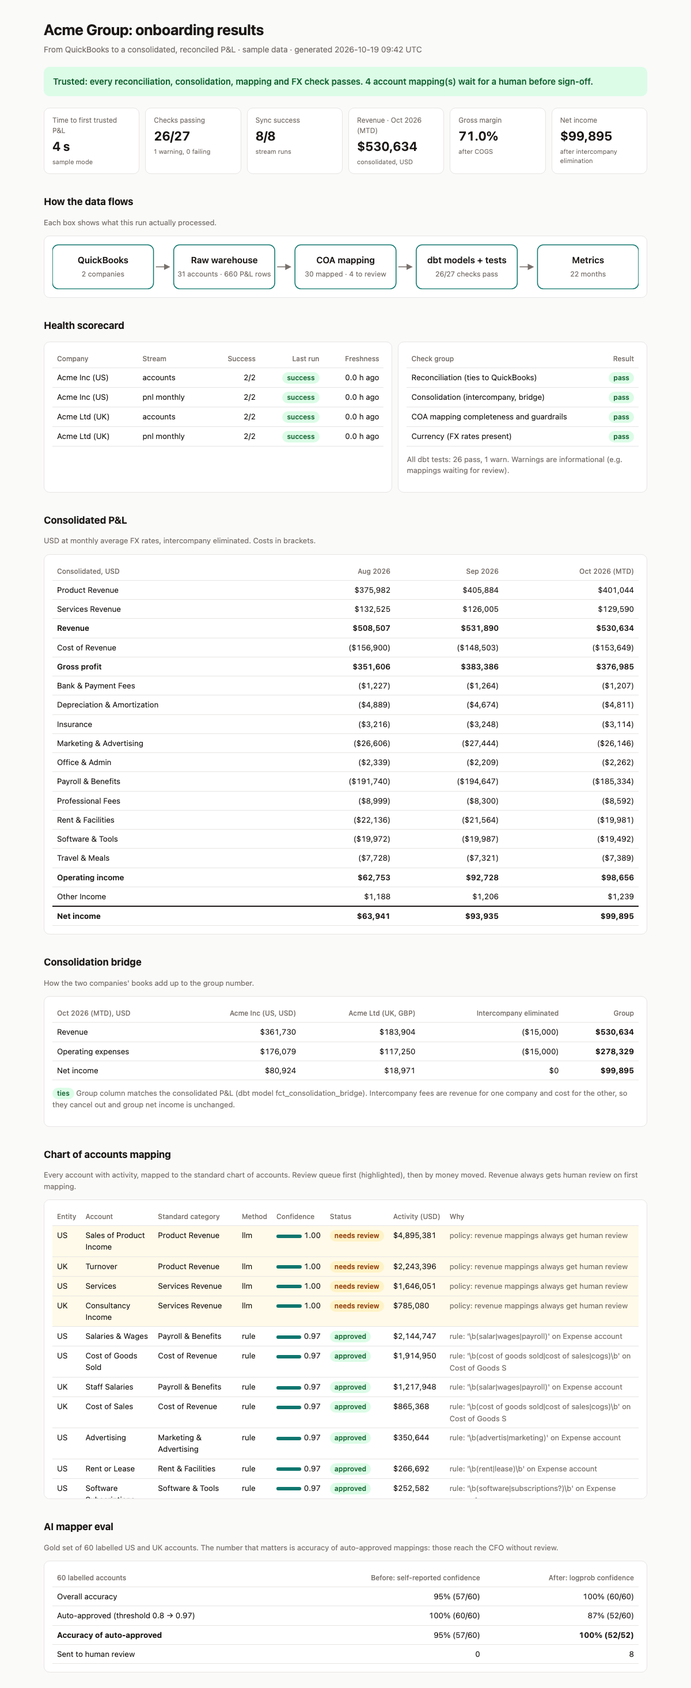
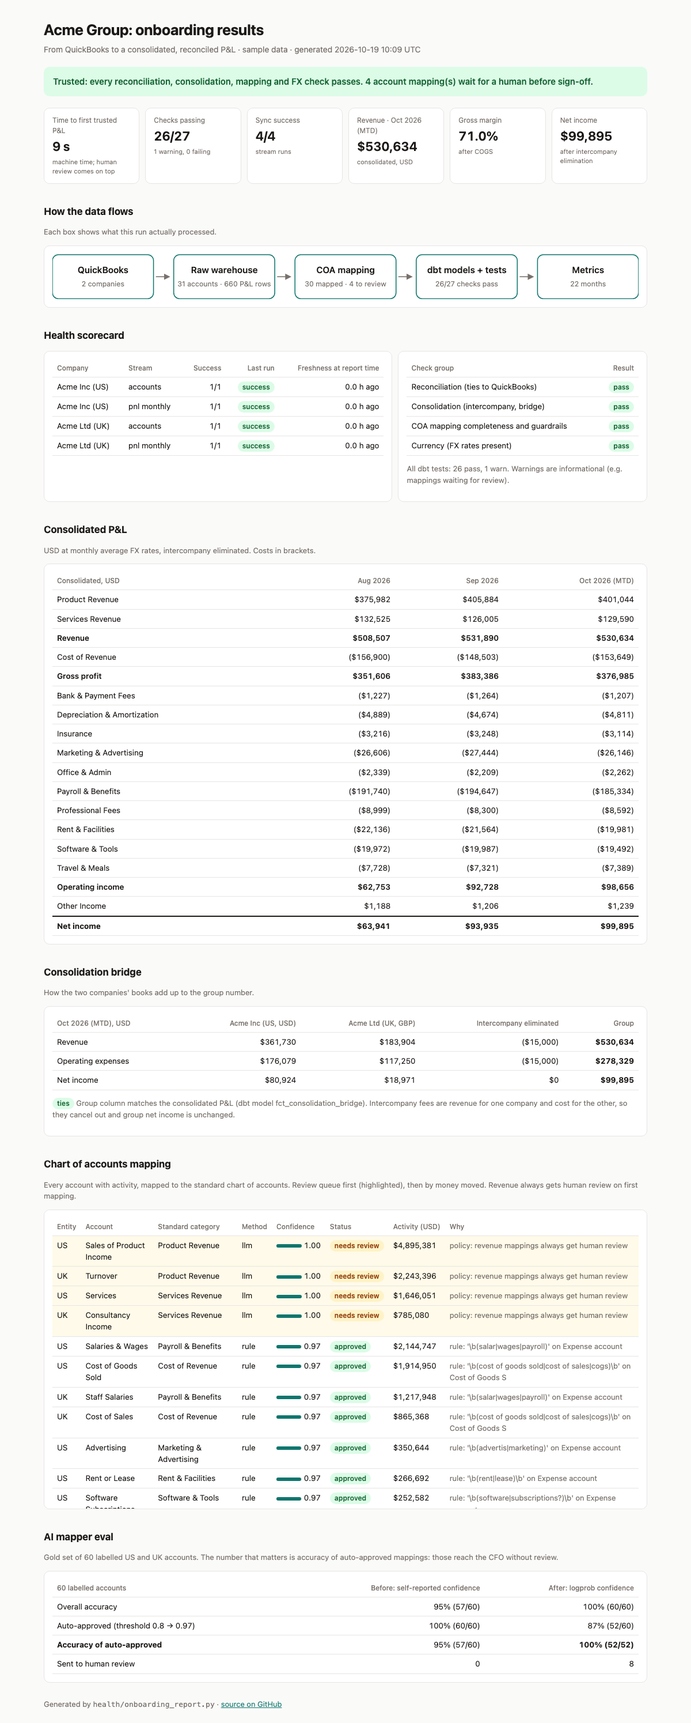
README for a 2-minute read; publish the results dashboard
- First screen in plain English: one-line summary, dashboard and docs links,
  the problem, what was built, and how to run it in 3 commands
- Technical detail moves under "For engineers"
- docs/index.html: results report from a fresh sample-mode run, served by GitHub Pages

diff --git a/docs/index.html b/docs/index.html
@@ -1,0 +1,85 @@
+<!doctype html>
+<html lang="en"><head><meta charset="utf-8"><meta name="viewport" content="width=device-width, initial-scale=1">
+<title>Onboarding results</title>
+<style>
+:root { --bg:#fafaf9; --card:#ffffff; --text:#1c1917; --muted:#78716c; --line:#e7e5e4; --accent:#0f766e;
+        --ok-bg:#dcfce7; --ok:#166534; --warn-bg:#fef3c7; --warn:#92400e; --bad-bg:#fee2e2; --bad:#991b1b; }
+@media (prefers-color-scheme: dark) { :root { --bg:#0c0a09; --card:#1c1917; --text:#f5f5f4; --muted:#a8a29e;
+        --line:#292524; --accent:#2dd4bf; --ok-bg:#14532d; --ok:#bbf7d0; --warn-bg:#78350f; --warn:#fde68a;
+        --bad-bg:#7f1d1d; --bad:#fecaca; } }
+* { box-sizing:border-box; }
+body { margin:0; background:var(--bg); color:var(--text); font:15px/1.5 -apple-system,BlinkMacSystemFont,"Segoe UI",Roboto,sans-serif; }
+main { max-width:1080px; margin:0 auto; padding:32px 16px 64px; }
+h1 { font-size:26px; margin:0 0 4px; letter-spacing:-0.01em; }
+h2 { font-size:17px; margin:36px 0 4px; }
+.lead { color:var(--muted); margin:0 0 4px; font-size:14px; }
+.muted { color:var(--muted); font-size:13px; }
+.verdict { margin:20px 0; padding:14px 16px; border-radius:10px; font-weight:600;
+           background:var(--ok-bg); color:var(--ok); }
+.tiles { display:grid; grid-template-columns:repeat(auto-fit,minmax(150px,1fr)); gap:10px; }
+.tile { background:var(--card); border:1px solid var(--line); border-radius:10px; padding:12px 14px; }
+.tile .label { color:var(--muted); font-size:12px; }
+.tile .value { font-size:22px; font-weight:650; font-variant-numeric:tabular-nums; margin:2px 0; }
+.tile .sub { color:var(--muted); font-size:11px; }
+.card { background:var(--card); border:1px solid var(--line); border-radius:10px; padding:14px; margin-top:10px; }
+.grid2 { display:grid; grid-template-columns:1.4fr 1fr; gap:10px; }
+@media (max-width:760px) { .grid2 { grid-template-columns:1fr; } }
+.scroll { overflow-x:auto; }
+table { width:100%; border-collapse:collapse; font-size:13.5px; font-variant-numeric:tabular-nums; }
+th { text-align:left; color:var(--muted); font-weight:500; font-size:12px; border-bottom:1px solid var(--line); padding:6px 8px; white-space:nowrap; }
+td { border-bottom:1px solid var(--line); padding:6px 8px; vertical-align:top; }
+.num { text-align:right; white-space:nowrap; }
+tr.subtotal td { font-weight:600; border-top:1px solid var(--muted); }
+tr.total td { font-weight:700; border-top:2px solid var(--text); }
+tr.review td { background:color-mix(in srgb, var(--warn-bg) 40%, transparent); }
+.pill { display:inline-block; padding:1px 8px; border-radius:999px; font-size:12px; font-weight:600; white-space:nowrap; }
+.pill.ok { background:var(--ok-bg); color:var(--ok); } .pill.warn { background:var(--warn-bg); color:var(--warn); }
+.pill.bad { background:var(--bad-bg); color:var(--bad); }
+.bar { display:inline-block; width:44px; height:6px; border-radius:3px; background:var(--line); vertical-align:middle; }
+.bar span { display:block; height:100%; border-radius:3px; background:var(--accent); }
+a { color:var(--accent); }
+svg { width:100%; height:auto; display:block; }
+svg .box { fill:var(--card); stroke:var(--accent); stroke-width:1.5; }
+svg .t1 { fill:var(--text); font-size:15px; font-weight:600; text-anchor:middle; }
+svg .t2 { fill:var(--muted); font-size:12px; text-anchor:middle; }
+svg .arrow { stroke:var(--muted); stroke-width:1.5; fill:none; } svg .arrowhead { fill:var(--muted); }
+.mapping { max-height:520px; overflow:auto; }
+.nowrap { white-space:nowrap; }
+</style></head><body><main>
+<h1>Acme Group: onboarding results</h1>
+<p class="lead">From QuickBooks to a consolidated, reconciled P&amp;L · sample data ·
+generated 2026-10-19 10:09 UTC</p>
+<div class="verdict">Trusted: every reconciliation, consolidation, mapping and FX check passes. 4 account mapping(s) wait for a human before sign-off.</div>
+<div class="tiles"><div class="tile"><div class="label">Time to first trusted P&amp;L</div><div class="value">9 s</div><div class="sub">machine time; human review comes on top</div></div><div class="tile"><div class="label">Checks passing</div><div class="value">26/27</div><div class="sub">1 warning, 0 failing</div></div><div class="tile"><div class="label">Sync success</div><div class="value">4/4</div><div class="sub">stream runs</div></div><div class="tile"><div class="label">Revenue · Oct 2026 (MTD)</div><div class="value">$530,634</div><div class="sub">consolidated, USD</div></div><div class="tile"><div class="label">Gross margin</div><div class="value">71.0%</div><div class="sub">after COGS</div></div><div class="tile"><div class="label">Net income</div><div class="value">$99,895</div><div class="sub">after intercompany elimination</div></div></div>
+
+<h2>How the data flows</h2>
+<p class="muted">Each box shows what this run actually processed.</p>
+<div class="card"><svg viewBox="0 0 986 76" role="img" aria-label="Data flow"><defs><marker id="head" viewBox="0 0 10 10" refX="8" refY="5" markerWidth="7" markerHeight="7" orient="auto"><path d="M0 0 L10 5 L0 10 z" class="arrowhead"/></marker></defs><rect x="0" y="1" width="170" height="74" rx="10" class="box"/><text x="85.0" y="32" class="t1">QuickBooks</text><text x="85.0" y="54" class="t2">2 companies</text><path d="M174 38.0 h22" class="arrow" marker-end="url(#head)"/><rect x="204" y="1" width="170" height="74" rx="10" class="box"/><text x="289.0" y="32" class="t1">Raw warehouse</text><text x="289.0" y="54" class="t2">31 accounts · 660 P&amp;L rows</text><path d="M378 38.0 h22" class="arrow" marker-end="url(#head)"/><rect x="408" y="1" width="170" height="74" rx="10" class="box"/><text x="493.0" y="32" class="t1">COA mapping</text><text x="493.0" y="54" class="t2">30 mapped · 4 to review</text><path d="M582 38.0 h22" class="arrow" marker-end="url(#head)"/><rect x="612" y="1" width="170" height="74" rx="10" class="box"/><text x="697.0" y="32" class="t1">dbt models + tests</text><text x="697.0" y="54" class="t2">26/27 checks pass</text><path d="M786 38.0 h22" class="arrow" marker-end="url(#head)"/><rect x="816" y="1" width="170" height="74" rx="10" class="box"/><text x="901.0" y="32" class="t1">Metrics</text><text x="901.0" y="54" class="t2">22 months</text></svg></div>
+
+<h2>Health scorecard</h2>
+<div class="grid2">
+  <div class="card"><div class="scroll"><table><thead><tr><th class="">Company</th><th class="">Stream</th><th class="num">Success</th><th class="num">Last run</th><th class="num">Freshness at report time</th></tr></thead><tbody><tr class=""><td class="">Acme Inc (US)</td><td class="">accounts</td><td class="num">1/1</td><td class="num"><span class="pill ok">success</span></td><td class="num">0.0 h ago</td></tr><tr class=""><td class="">Acme Inc (US)</td><td class="">pnl monthly</td><td class="num">1/1</td><td class="num"><span class="pill ok">success</span></td><td class="num">0.0 h ago</td></tr><tr class=""><td class="">Acme Ltd (UK)</td><td class="">accounts</td><td class="num">1/1</td><td class="num"><span class="pill ok">success</span></td><td class="num">0.0 h ago</td></tr><tr class=""><td class="">Acme Ltd (UK)</td><td class="">pnl monthly</td><td class="num">1/1</td><td class="num"><span class="pill ok">success</span></td><td class="num">0.0 h ago</td></tr></tbody></table></div></div>
+  <div class="card"><div class="scroll"><table><thead><tr><th class="">Check group</th><th class="num">Result</th></tr></thead><tbody><tr class=""><td class="">Reconciliation (ties to QuickBooks)</td><td class="num"><span class="pill ok">pass</span></td></tr><tr class=""><td class="">Consolidation (intercompany, bridge)</td><td class="num"><span class="pill ok">pass</span></td></tr><tr class=""><td class="">COA mapping completeness and guardrails</td><td class="num"><span class="pill ok">pass</span></td></tr><tr class=""><td class="">Currency (FX rates present)</td><td class="num"><span class="pill ok">pass</span></td></tr></tbody></table></div><p class="muted">All dbt tests: 26 pass, 1 warn.
+  Warnings are informational (e.g. mappings waiting for review).</p></div>
+</div>
+
+<h2>Consolidated P&amp;L</h2>
+<p class="muted">USD at monthly average FX rates, intercompany eliminated. Costs in brackets.</p>
+<div class="card"><div class="scroll"><table><thead><tr><th class="">Consolidated, USD</th><th class="num">Aug 2026</th><th class="num">Sep 2026</th><th class="num">Oct 2026 (MTD)</th></tr></thead><tbody><tr class=""><td class="">Product Revenue</td><td class="num">$375,982</td><td class="num">$405,884</td><td class="num">$401,044</td></tr><tr class=""><td class="">Services Revenue</td><td class="num">$132,525</td><td class="num">$126,005</td><td class="num">$129,590</td></tr><tr class="subtotal"><td class="">Revenue</td><td class="num">$508,507</td><td class="num">$531,890</td><td class="num">$530,634</td></tr><tr class=""><td class="">Cost of Revenue</td><td class="num">($156,900)</td><td class="num">($148,503)</td><td class="num">($153,649)</td></tr><tr class="subtotal"><td class="">Gross profit</td><td class="num">$351,606</td><td class="num">$383,386</td><td class="num">$376,985</td></tr><tr class=""><td class="">Bank &amp; Payment Fees</td><td class="num">($1,227)</td><td class="num">($1,264)</td><td class="num">($1,207)</td></tr><tr class=""><td class="">Depreciation &amp; Amortization</td><td class="num">($4,889)</td><td class="num">($4,674)</td><td class="num">($4,811)</td></tr><tr class=""><td class="">Insurance</td><td class="num">($3,216)</td><td class="num">($3,248)</td><td class="num">($3,114)</td></tr><tr class=""><td class="">Marketing &amp; Advertising</td><td class="num">($26,606)</td><td class="num">($27,444)</td><td class="num">($26,146)</td></tr><tr class=""><td class="">Office &amp; Admin</td><td class="num">($2,339)</td><td class="num">($2,209)</td><td class="num">($2,262)</td></tr><tr class=""><td class="">Payroll &amp; Benefits</td><td class="num">($191,740)</td><td class="num">($194,647)</td><td class="num">($185,334)</td></tr><tr class=""><td class="">Professional Fees</td><td class="num">($8,999)</td><td class="num">($8,300)</td><td class="num">($8,592)</td></tr><tr class=""><td class="">Rent &amp; Facilities</td><td class="num">($22,136)</td><td class="num">($21,564)</td><td class="num">($19,981)</td></tr><tr class=""><td class="">Software &amp; Tools</td><td class="num">($19,972)</td><td class="num">($19,987)</td><td class="num">($19,492)</td></tr><tr class=""><td class="">Travel &amp; Meals</td><td class="num">($7,728)</td><td class="num">($7,321)</td><td class="num">($7,389)</td></tr><tr class="subtotal"><td class="">Operating income</td><td class="num">$62,753</td><td class="num">$92,728</td><td class="num">$98,656</td></tr><tr class=""><td class="">Other Income</td><td class="num">$1,188</td><td class="num">$1,206</td><td class="num">$1,239</td></tr><tr class="total"><td class="">Net income</td><td class="num">$63,941</td><td class="num">$93,935</td><td class="num">$99,895</td></tr></tbody></table></div></div>
+
+<h2>Consolidation bridge</h2>
+<p class="muted">How the two companies' books add up to the group number.</p>
+<div class="card"><div class="scroll"><table><thead><tr><th class="">Oct 2026 (MTD), USD</th><th class="num">Acme Inc (US, USD)</th><th class="num">Acme Ltd (UK, GBP)</th><th class="num">Intercompany eliminated</th><th class="num">Group</th></tr></thead><tbody><tr class=""><td class="">Revenue</td><td class="num">$361,730</td><td class="num">$183,904</td><td class="num">($15,000)</td><td class="num"><b>$530,634</b></td></tr><tr class=""><td class="">Operating expenses</td><td class="num">$176,079</td><td class="num">$117,250</td><td class="num">($15,000)</td><td class="num"><b>$278,329</b></td></tr><tr class=""><td class="">Net income</td><td class="num">$80,924</td><td class="num">$18,971</td><td class="num">$0</td><td class="num"><b>$99,895</b></td></tr></tbody></table></div><p class="muted"><span class="pill ok">ties</span> Group column matches the consolidated P&L (dbt model fct_consolidation_bridge). Intercompany fees are revenue for one company and cost for the other, so they cancel out and group net income is unchanged.</p></div>
+
+<h2>Chart of accounts mapping</h2>
+<p class="muted">Every account with activity, mapped to the standard chart of accounts. Review queue first
+(highlighted), then by money moved. Revenue always gets human review on first mapping.</p>
+<div class="card mapping"><div class="scroll"><table><thead><tr><th class="">Entity</th><th class="">Account</th><th class="">Standard category</th><th class="">Method</th><th class="">Confidence</th><th class="">Status</th><th class="">Activity (USD)</th><th class="">Why</th></tr></thead><tbody><tr class="review"><td class="">US</td><td class="">Sales of Product Income</td><td class="">Product Revenue</td><td class="">llm</td><td class=""><span class="nowrap"><span class="bar"><span style="width:100%"></span></span> 1.00</span></td><td class=""><span class="pill warn">needs review</span></td><td class="">$4,895,381</td><td class=""><span class="muted">policy: revenue mappings always get human review</span></td></tr><tr class="review"><td class="">UK</td><td class="">Turnover</td><td class="">Product Revenue</td><td class="">llm</td><td class=""><span class="nowrap"><span class="bar"><span style="width:100%"></span></span> 1.00</span></td><td class=""><span class="pill warn">needs review</span></td><td class="">$2,243,396</td><td class=""><span class="muted">policy: revenue mappings always get human review</span></td></tr><tr class="review"><td class="">US</td><td class="">Services</td><td class="">Services Revenue</td><td class="">llm</td><td class=""><span class="nowrap"><span class="bar"><span style="width:100%"></span></span> 1.00</span></td><td class=""><span class="pill warn">needs review</span></td><td class="">$1,646,051</td><td class=""><span class="muted">policy: revenue mappings always get human review</span></td></tr><tr class="review"><td class="">UK</td><td class="">Consultancy Income</td><td class="">Services Revenue</td><td class="">llm</td><td class=""><span class="nowrap"><span class="bar"><span style="width:100%"></span></span> 1.00</span></td><td class=""><span class="pill warn">needs review</span></td><td class="">$785,080</td><td class=""><span class="muted">policy: revenue mappings always get human review</span></td></tr><tr class=""><td class="">US</td><td class="">Salaries &amp; Wages</td><td class="">Payroll &amp; Benefits</td><td class="">rule</td><td class=""><span class="nowrap"><span class="bar"><span style="width:97%"></span></span> 0.97</span></td><td class=""><span class="pill ok">approved</span></td><td class="">$2,144,747</td><td class=""><span class="muted">rule: &#x27;\b(salar|wages|payroll)&#x27; on Expense account</span></td></tr><tr class=""><td class="">US</td><td class="">Cost of Goods Sold</td><td class="">Cost of Revenue</td><td class="">rule</td><td class=""><span class="nowrap"><span class="bar"><span style="width:97%"></span></span> 0.97</span></td><td class=""><span class="pill ok">approved</span></td><td class="">$1,914,950</td><td class=""><span class="muted">rule: &#x27;\b(cost of goods sold|cost of sales|cogs)\b&#x27; on Cost of Goods S</span></td></tr><tr class=""><td class="">UK</td><td class="">Staff Salaries</td><td class="">Payroll &amp; Benefits</td><td class="">rule</td><td class=""><span class="nowrap"><span class="bar"><span style="width:97%"></span></span> 0.97</span></td><td class=""><span class="pill ok">approved</span></td><td class="">$1,217,948</td><td class=""><span class="muted">rule: &#x27;\b(salar|wages|payroll)&#x27; on Expense account</span></td></tr><tr class=""><td class="">UK</td><td class="">Cost of Sales</td><td class="">Cost of Revenue</td><td class="">rule</td><td class=""><span class="nowrap"><span class="bar"><span style="width:97%"></span></span> 0.97</span></td><td class=""><span class="pill ok">approved</span></td><td class="">$865,368</td><td class=""><span class="muted">rule: &#x27;\b(cost of goods sold|cost of sales|cogs)\b&#x27; on Cost of Goods S</span></td></tr><tr class=""><td class="">US</td><td class="">Advertising</td><td class="">Marketing &amp; Advertising</td><td class="">rule</td><td class=""><span class="nowrap"><span class="bar"><span style="width:97%"></span></span> 0.97</span></td><td class=""><span class="pill ok">approved</span></td><td class="">$350,644</td><td class=""><span class="muted">rule: &#x27;\b(advertis|marketing)&#x27; on Expense account</span></td></tr><tr class=""><td class="">US</td><td class="">Rent or Lease</td><td class="">Rent &amp; Facilities</td><td class="">rule</td><td class=""><span class="nowrap"><span class="bar"><span style="width:97%"></span></span> 0.97</span></td><td class=""><span class="pill ok">approved</span></td><td class="">$266,692</td><td class=""><span class="muted">rule: &#x27;\b(rent|lease)\b&#x27; on Expense account</span></td></tr><tr class=""><td class="">US</td><td class="">Software Subscriptions</td><td class="">Software &amp; Tools</td><td class="">rule</td><td class=""><span class="nowrap"><span class="bar"><span style="width:97%"></span></span> 0.97</span></td><td class=""><span class="pill ok">approved</span></td><td class="">$252,582</td><td class=""><span class="muted">rule: &#x27;\b(software|subscriptions?)\b&#x27; on Expense account</span></td></tr><tr class=""><td class="">UK</td><td class="">Office Rent</td><td class="">Rent &amp; Facilities</td><td class="">rule</td><td class=""><span class="nowrap"><span class="bar"><span style="width:97%"></span></span> 0.97</span></td><td class=""><span class="pill ok">approved</span></td><td class="">$186,635</td><td class=""><span class="muted">rule: &#x27;\b(rent|lease)\b&#x27; on Expense account</span></td></tr><tr class=""><td class="">US</td><td class="">Payroll Taxes</td><td class="">Payroll &amp; Benefits</td><td class="">rule</td><td class=""><span class="nowrap"><span class="bar"><span style="width:97%"></span></span> 0.97</span></td><td class=""><span class="pill ok">approved</span></td><td class="">$181,009</td><td class=""><span class="muted">rule: &#x27;\b(salar|wages|payroll)&#x27; on Expense account</span></td></tr><tr class=""><td class="">UK</td><td class="">Marketing</td><td class="">Marketing &amp; Advertising</td><td class="">rule</td><td class=""><span class="nowrap"><span class="bar"><span style="width:97%"></span></span> 0.97</span></td><td class=""><span class="pill ok">approved</span></td><td class="">$169,123</td><td class=""><span class="muted">rule: &#x27;\b(advertis|marketing)&#x27; on Expense account</span></td></tr><tr class=""><td class="">UK</td><td class="">Employer&#x27;s NI</td><td class="">Payroll &amp; Benefits</td><td class="">llm</td><td class=""><span class="nowrap"><span class="bar"><span style="width:100%"></span></span> 1.00</span></td><td class=""><span class="pill ok">approved</span></td><td class="">$147,578</td><td class=""><span class="muted">llm: p(category)=1.00 from token logprobs</span></td></tr><tr class=""><td class="">US</td><td class="">Legal &amp; Professional Fees</td><td class="">Professional Fees</td><td class="">rule</td><td class=""><span class="nowrap"><span class="bar"><span style="width:97%"></span></span> 0.97</span></td><td class=""><span class="pill ok">approved</span></td><td class="">$134,618</td><td class=""><span class="muted">rule: &#x27;\b(legal|professional fees)\b&#x27; on Expense account</span></td></tr><tr class=""><td class="">UK</td><td class="">SaaS Tools</td><td class="">Software &amp; Tools</td><td class="">llm</td><td class=""><span class="nowrap"><span class="bar"><span style="width:100%"></span></span> 1.00</span></td><td class=""><span class="pill ok">approved</span></td><td class="">$109,563</td><td class=""><span class="muted">llm: p(category)=1.00 from token logprobs</span></td></tr><tr class=""><td class="">US</td><td class="">Travel</td><td class="">Travel &amp; Meals</td><td class="">llm</td><td class=""><span class="nowrap"><span class="bar"><span style="width:100%"></span></span> 1.00</span></td><td class=""><span class="pill ok">approved</span></td><td class="">$100,683</td><td class=""><span class="muted">llm: p(category)=1.00 from token logprobs</span></td></tr><tr class=""><td class="">US</td><td class="">Depreciation</td><td class="">Depreciation &amp; Amortization</td><td class="">rule</td><td class=""><span class="nowrap"><span class="bar"><span style="width:97%"></span></span> 0.97</span></td><td class=""><span class="pill ok">approved</span></td><td class="">$70,433</td><td class=""><span class="muted">rule: &#x27;\b(depreciation|amortization|amortisation)\b&#x27; on Other Expense </span></td></tr><tr class=""><td class="">UK</td><td class="">Accountancy Fees</td><td class="">Professional Fees</td><td class="">llm</td><td class=""><span class="nowrap"><span class="bar"><span style="width:100%"></span></span> 1.00</span></td><td class=""><span class="pill ok">approved</span></td><td class="">$54,492</td><td class=""><span class="muted">llm: p(category)=1.00 from token logprobs</span></td></tr><tr class=""><td class="">UK</td><td class="">Travel &amp; Subsistence</td><td class="">Travel &amp; Meals</td><td class="">llm</td><td class=""><span class="nowrap"><span class="bar"><span style="width:100%"></span></span> 1.00</span></td><td class=""><span class="pill ok">approved</span></td><td class="">$51,188</td><td class=""><span class="muted">llm: p(category)=1.00 from token logprobs</span></td></tr><tr class=""><td class="">US</td><td class="">Insurance</td><td class="">Insurance</td><td class="">rule</td><td class=""><span class="nowrap"><span class="bar"><span style="width:97%"></span></span> 0.97</span></td><td class=""><span class="pill ok">approved</span></td><td class="">$46,399</td><td class=""><span class="muted">rule: &#x27;\binsurance\b&#x27; on Expense account</span></td></tr><tr class=""><td class="">US</td><td class="">Office Expenses</td><td class="">Office &amp; Admin</td><td class="">llm</td><td class=""><span class="nowrap"><span class="bar"><span style="width:100%"></span></span> 1.00</span></td><td class=""><span class="pill ok">approved</span></td><td class="">$39,306</td><td class=""><span class="muted">llm: p(category)=1.00 from token logprobs</span></td></tr><tr class=""><td class="">UK</td><td class="">Depreciation</td><td class="">Depreciation &amp; Amortization</td><td class="">rule</td><td class=""><span class="nowrap"><span class="bar"><span style="width:97%"></span></span> 0.97</span></td><td class=""><span class="pill ok">approved</span></td><td class="">$31,340</td><td class=""><span class="muted">rule: &#x27;\b(depreciation|amortization|amortisation)\b&#x27; on Other Expense </span></td></tr><tr class=""><td class="">UK</td><td class="">Business Insurance</td><td class="">Insurance</td><td class="">rule</td><td class=""><span class="nowrap"><span class="bar"><span style="width:97%"></span></span> 0.97</span></td><td class=""><span class="pill ok">approved</span></td><td class="">$22,838</td><td class=""><span class="muted">rule: &#x27;\binsurance\b&#x27; on Expense account</span></td></tr><tr class=""><td class="">US</td><td class="">Interest Earned</td><td class="">Other Income</td><td class="">rule</td><td class=""><span class="nowrap"><span class="bar"><span style="width:97%"></span></span> 0.97</span></td><td class=""><span class="pill ok">approved</span></td><td class="">$19,811</td><td class=""><span class="muted">rule: &#x27;\binterest (earned|income)\b&#x27; on Other Income account</span></td></tr><tr class=""><td class="">US</td><td class="">Bank Charges</td><td class="">Bank &amp; Payment Fees</td><td class="">rule</td><td class=""><span class="nowrap"><span class="bar"><span style="width:97%"></span></span> 0.97</span></td><td class=""><span class="pill ok">approved</span></td><td class="">$14,355</td><td class=""><span class="muted">rule: &#x27;\bbank charges\b&#x27; on Expense account</span></td></tr><tr class=""><td class="">UK</td><td class="">Card Processing Fees</td><td class="">Bank &amp; Payment Fees</td><td class="">llm</td><td class=""><span class="nowrap"><span class="bar"><span style="width:100%"></span></span> 1.00</span></td><td class=""><span class="pill ok">approved</span></td><td class="">$12,110</td><td class=""><span class="muted">llm: p(category)=1.00 from token logprobs</span></td></tr><tr class=""><td class="">UK</td><td class="">Stationery</td><td class="">Office &amp; Admin</td><td class="">llm</td><td class=""><span class="nowrap"><span class="bar"><span style="width:100%"></span></span> 1.00</span></td><td class=""><span class="pill ok">approved</span></td><td class="">$9,999</td><td class=""><span class="muted">llm: p(category)=1.00 from token logprobs</span></td></tr><tr class=""><td class="">UK</td><td class="">Bank Interest Received</td><td class="">Other Income</td><td class="">llm</td><td class=""><span class="nowrap"><span class="bar"><span style="width:100%"></span></span> 1.00</span></td><td class=""><span class="pill ok">approved</span></td><td class="">$6,851</td><td class=""><span class="muted">llm: p(category)=1.00 from token logprobs</span></td></tr></tbody></table></div></div>
+
+<h2>AI mapper eval</h2>
+<p class="muted">Gold set of 60 labelled US and UK accounts. The number that matters is accuracy of
+auto-approved mappings: those reach the CFO without review.</p>
+<div class="card"><div class="scroll"><table><thead><tr><th class="">60 labelled accounts</th><th class="num">Before: self-reported confidence</th><th class="num">After: logprob confidence</th></tr></thead><tbody><tr class=""><td class="">Overall accuracy</td><td class="num">95% (57/60)</td><td class="num">100% (60/60)</td></tr><tr class=""><td class="">Auto-approved (threshold 0.8 → 0.97)</td><td class="num">100% (60/60)</td><td class="num">87% (52/60)</td></tr><tr class=""><td class=""><b>Accuracy of auto-approved</b></td><td class="num">95% (57/60)</td><td class="num"><b>100% (52/52)</b></td></tr><tr class=""><td class="">Sent to human review</td><td class="num">0</td><td class="num">8</td></tr></tbody></table></div></div>
+<p class="muted" style="margin-top:28px">Generated by <code>health/onboarding_report.py</code> ·
+<a href="https://github.com/kushajjee-tech/TaskForDT">source on GitHub</a></p>
+</main></body></html>

diff --git a/README.md b/README.md
@@ -1,28 +1,51 @@
 # Finance onboarding in a day
 
-**From "connect your accounting system" to a trusted, consolidated P&L, with checks that prove it's right.**
+**Turns two companies' QuickBooks books into one trusted, combined monthly P&L (profit and loss statement), with automatic checks that prove every number matches the source.**
 
-A working slice of a finance data platform: QuickBooks → warehouse → chart of accounts mapping (rules + AI) → currency conversion → multi-entity consolidation with intercompany elimination → reconciliation tests → metrics layer → platform health report.
+**[Results dashboard](https://kushajjee-tech.github.io/TaskForDT/)** · [Product brief (PRD)](docs/PRD.md) · [Data contract](docs/data_contract_pnl.yml) · [How AI agents should use the data](docs/ai_ready_interface.md)
 
-Built to show how I'd approach the hardest part of FP&A onboarding: getting messy, multi-entity accounting data into a shape a CFO will trust in a board meeting.
+## The problem
 
-![Onboarding results report: verdict, data flow, health scorecard, consolidated P&L, consolidation bridge, COA mapping and AI eval](docs/images/onboarding_report.png)
+A new customer of an FP&A (financial planning) tool wants to see their numbers on day one. But accounting data is messy: every company names its accounts differently, uses its own currency and books payments between its own companies, so onboarding usually takes weeks of manual work.
 
-*`reports/onboarding_report.html`, generated from the warehouse at the end of every run (sample data shown). One self-contained page a founder can read in two minutes.*
+## What I built
+
+A working slice of that onboarding, run on a sample group of two companies (Acme Inc in the US, Acme Ltd in the UK) and tested against real QuickBooks sandbox companies.
+
+| Piece | What it does |
+|---|---|
+| **QuickBooks connector** | Pulls the chart of accounts and the monthly P&L through the QuickBooks API. After the first full load, it only fetches what changed, and re-checks recent months because accountants edit the past. |
+| **Warehouse + normalization** | Stores everything in a local DuckDB database (a single-file SQL database). Converts pounds to dollars at monthly average rates and removes payments between the two companies, so the group isn't double counted. |
+| **Account mapping with AI, and its eval** | Maps each company's accounts to one standard chart of accounts (COA), e.g. "SaaS Tools" and "Software Subscriptions" both become *Software & Tools*. Simple rules first, then an LLM for the rest. Unsure answers, and all revenue accounts, go to a human. Measured on 60 labelled accounts: 100% of auto-approved mappings correct, up from 95%. |
+| **dbt transformations** | dbt is a tool for building tables with version-controlled SQL. It turns raw data into the company P&Ls, the combined group P&L and one shared set of metric definitions (revenue, gross margin, net income...). |
+| **Tests** | 27 automatic checks on every run. The key ones: every account and every month ties back to QuickBooks' own report to the cent, and payments between the companies cancel out exactly. |
+| **Health report** | Sync success, data freshness, which checks pass, and which mappings wait for review, in a one-page [dashboard](https://kushajjee-tech.github.io/TaskForDT/). |
+
+## Run it (sample data, no credentials)
+
+Python 3.10 or newer recommended (3.9 works but prints an SSL warning on macOS).
+
+```bash
+python3 -m venv .venv && source .venv/bin/activate && pip install -r requirements.txt
+cp .env.example .env
+./run_onboarding.sh --fresh
+```
+
+Then open `reports/onboarding_report.html` in a browser. The pipeline itself runs in under 10 seconds; installing packages takes longer.
+
+![Results dashboard: verdict, data flow, health scorecard, combined P&L, consolidation bridge, account mapping and AI eval](docs/images/onboarding_report.png)
 
 ---
 
-## The problem (in one example)
+# For engineers
 
-Acme has two companies: **Acme Inc (US, USD)** and **Acme Ltd (UK, GBP)**. The CFO wants one combined monthly P&L. Five things make that slow and error-prone:
+**See a check catch a real problem:**
+```bash
+make demo-edit   # simulates a back-dated edit OUTSIDE the lookback window → reconciliation fails
+make onboard     # normal sync again → passes
+```
 
-| Problem | What this project does |
-|---|---|
-| Getting data out reliably | Incremental QuickBooks extraction with checkpoints, retries and idempotent loads |
-| Every company names accounts differently ("Software Subscriptions" vs "SaaS Tools") | Chart of accounts mapping: rules first, LLM for the long tail, guardrails, human review queue |
-| Different currencies | Monthly average FX conversion to USD |
-| Money moving between the companies | Intercompany elimination on consolidation |
-| Proving the numbers are right | Reconciliation tests that tie every account and every month back to QuickBooks' own reports |
+Without an OpenAI key the mapper uses rules plus a weak fallback and sends the rest to review (the committed sample mapping means nothing needs mapping on a fresh clone). Add `OPENAI_API_KEY` to `.env` to use the LLM stage.
 
 ## Architecture
 
@@ -50,24 +73,6 @@ flowchart LR
 | Transform | `dbt/models/` | staging → intermediate (mapping, FX, intercompany) → marts (entity P&L, consolidated P&L, consolidation bridge, metrics). |
 | Test | `dbt/tests/` + schema tests | 27 checks, incl. reconciliation to source, intercompany nets to zero, every line mapped, AI mappings can't flip revenue/expense, FX rates present. |
 | Observe | `health/` | Sync success rate, freshness, test results, mappings awaiting review, time to first trusted P&L (`reports/platform_health.md`), plus the one-page HTML results report (`reports/onboarding_report.html`). |
-
-## Run it in 2 minutes (sample data, no credentials)
-
-```bash
-python3 -m venv .venv && source .venv/bin/activate
-pip install -r requirements.txt
-cp .env.example .env            # SOURCE_MODE=sample
-./run_onboarding.sh --fresh     # extract → map → dbt build → health report → HTML report
-open reports/onboarding_report.html
-```
-
-Without an OpenAI key the mapper runs rules + a weak fallback, and sends the rest to review. Add `OPENAI_API_KEY` to `.env` to use the LLM stage.
-
-**See the reconciliation test catch a real problem:**
-```bash
-make demo-edit   # simulates a back-dated edit OUTSIDE the lookback window → reconciliation fails
-make onboard     # normal sync again → passes
-```
 
 ## Run it on real QuickBooks sandboxes
 
@@ -120,10 +125,10 @@ Human-approved mappings are never overwritten, so each revenue account is review
 
 1. **Self-reported confidence was useless.** All 60 mappings came back at 0.97-1.00, including the 3 wrong ones (two at 1.00). No threshold could have caught them.
 2. **One of the errors was ours, not the model's.** The insurance rule sent "Health Insurance - Employees" to Insurance. Rules now skip employee-benefit names and leave them to the LLM.
-3. **The other two (Design income, Workers Compensation) went away** once each account got its own call and the category names were written unambiguously in the prompt.
+3. **The other two (Design income, Workers Compensation) were correct after the switch** to one call per account with category names quoted exactly in the prompt. Both changes landed together, so we can't say which one fixed them.
 4. **Calibration needs errors to calibrate against.** With logprobs, every threshold from 0.5 to 0.97 gives 100% auto-approved accuracy on this gold set, so the eval can't say where errors start. We pick the most conservative threshold that costs no automation (0.97, which also keeps the 0.97-confidence rules). 52/52 correct is still only ~93% at the lower end of a 95% confidence interval, so the next step is a bigger gold set with deliberately ambiguous accounts.
 
-Full tables: `evals/results_llm_before.md`, `evals/results_llm_after.md`.
+Full tables: [before](evals/results_llm_before.md), [after](evals/results_llm_after.md), [offline baseline](evals/results_offline.md) (rules only: 30% auto-approved, 18/18 correct).
 
 ## Key design decisions
 
@@ -145,5 +150,5 @@ ai/        COA mapper (rules → LLM → guardrails) and eval
 evals/     gold set + eval results
 dbt/       models (staging, intermediate, marts), seeds, tests
 health/    platform health report + one-page HTML results report
-docs/      PRD, data contract, acceptance criteria, AI-ready interface
+docs/      PRD (incl. acceptance criteria), data contract, AI-ready interface, dashboard (index.html)
 ```
